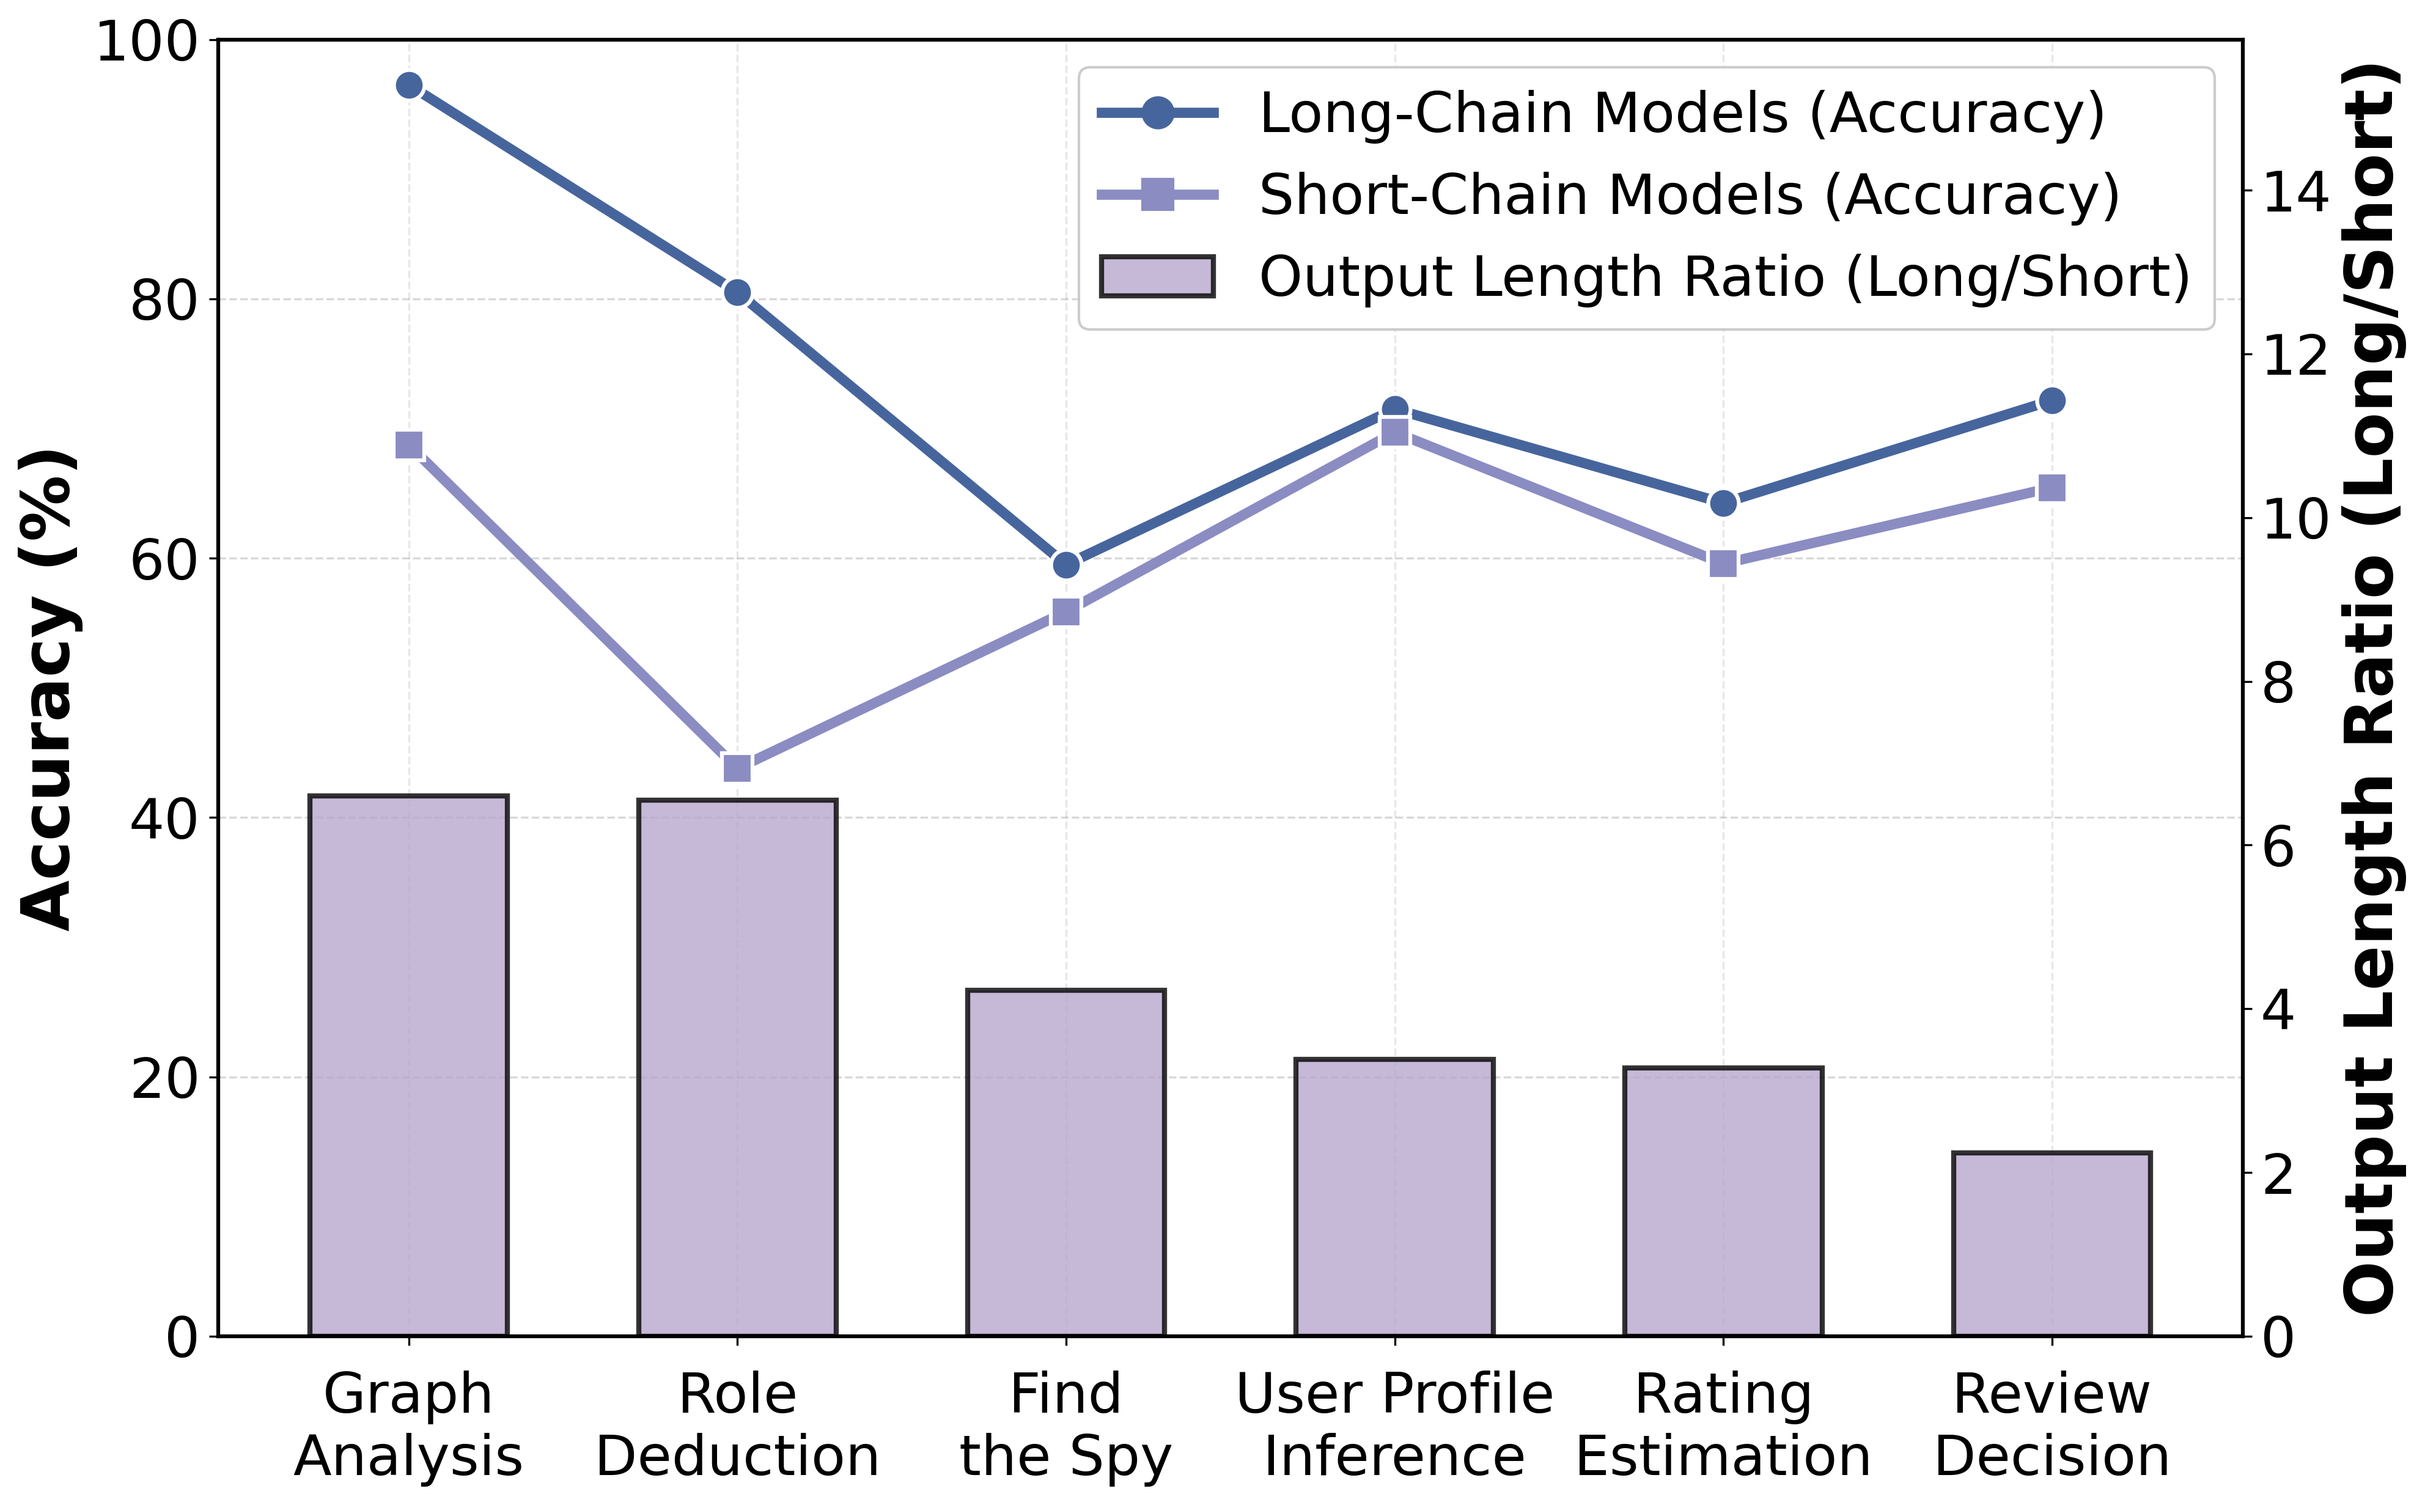
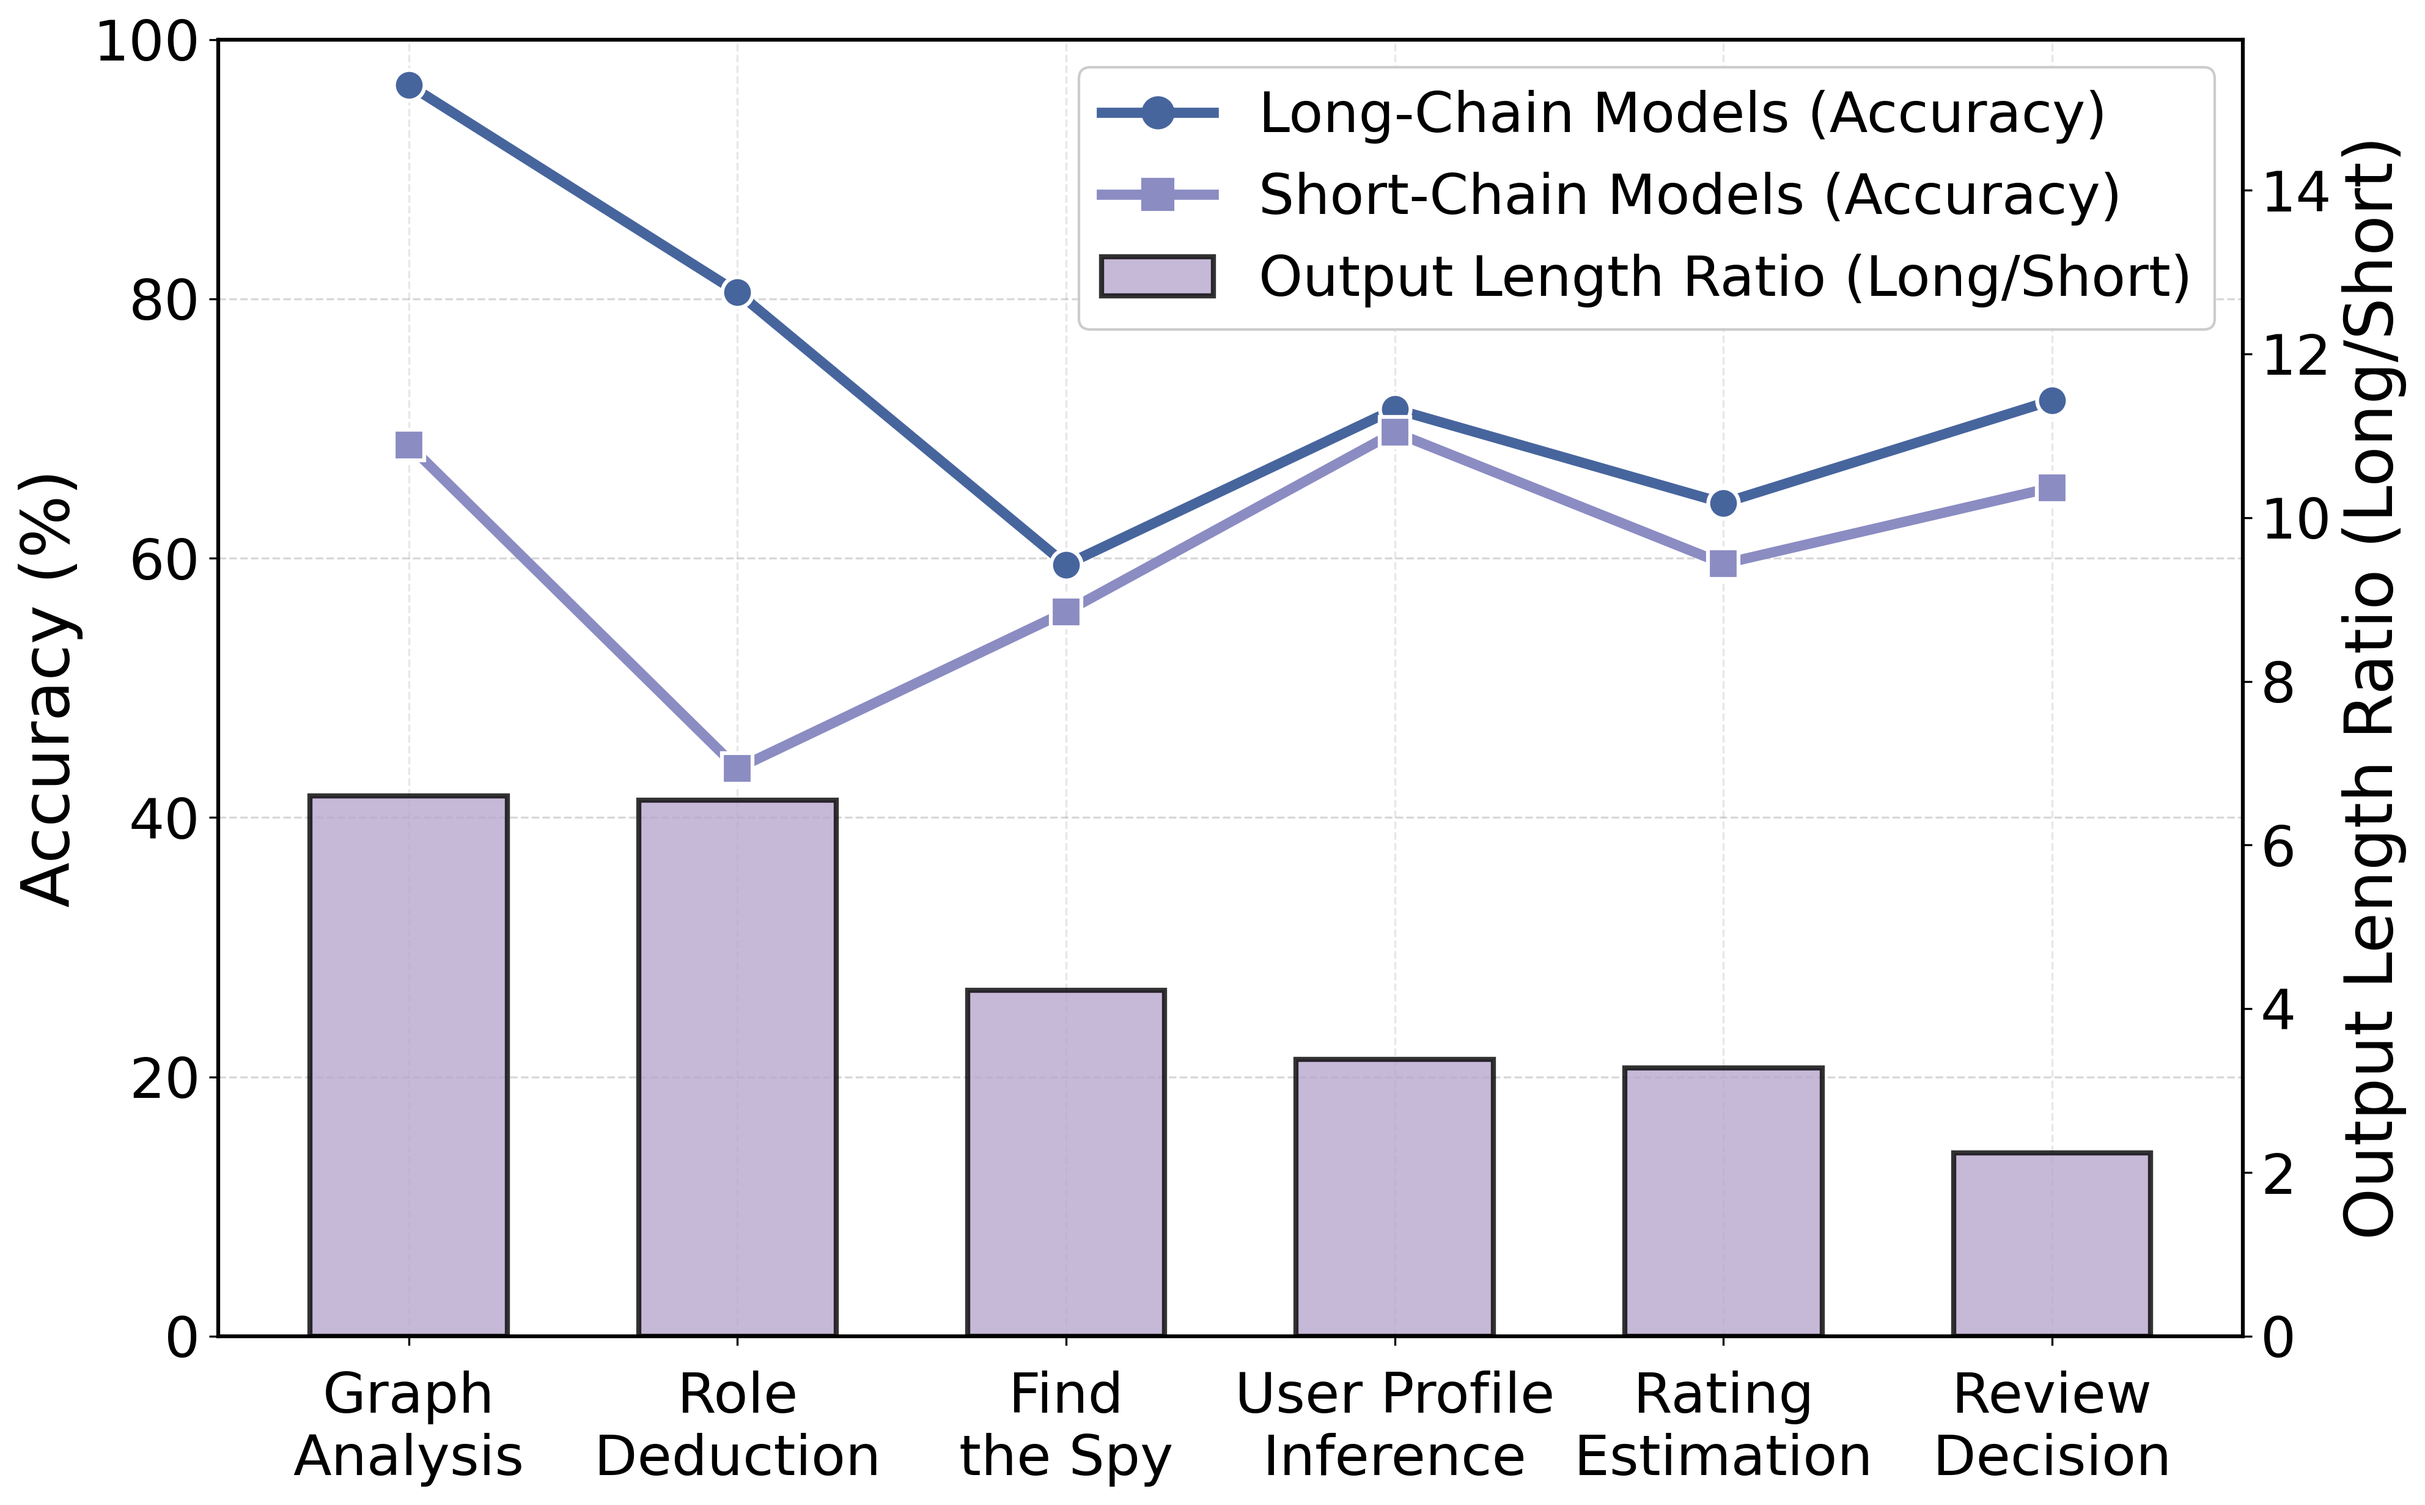
update

Changed region(s): [[0.9612, 0.0309, 0.9922, 0.8952], [0.0, 0.2778, 0.031, 0.6174]]

diff --git a/blood/round_acc.py b/blood/round_acc.py
@@ -3,6 +3,7 @@ import json
 import numpy as np
 import matplotlib.pyplot as plt
 import re
+import csv  # 添加csv模块导入
 
 # 定义颜色
 colors = ['#C7EAEC', '#AED9CE', '#96BAC7']
@@ -78,9 +79,6 @@ model_order = [
     'gemeni-2.5'
 ]
 
-# 重组数据以匹配新的顺序和名称
-models = [m for m in model_order if m in model_data]
-
 # 手动添加o1和gemeni-2.5的数据
 model_data['o1'] = {
     'round1': 42,
@@ -94,13 +92,31 @@ model_data['gemeni-2.5'] = {
     'round3': 88
 }
 
-# 确保包含手动添加的模型
+# 重组数据以匹配新的顺序和名称
 models = [m for m in model_order if m in model_data]
 display_names = [model_name_map.get(m, m) for m in models]
 
 round1_values = [model_data[m]['round1'] for m in models]
 round2_values = [model_data[m]['round2'] for m in models]
 round3_values = [model_data[m]['round3'] for m in models]
+
+# 输出数据到CSV文件
+csv_filename = 'multiturn_role_accuracy.csv'
+with open(csv_filename, 'w', newline='') as csvfile:
+    writer = csv.writer(csvfile)
+    # 写入表头
+    writer.writerow(['Model', 'Display Name', 'Round 1', 'Round 2', 'Round 3'])
+    # 写入数据
+    for i, model in enumerate(models):
+        writer.writerow([
+            model, 
+            display_names[i], 
+            round1_values[i], 
+            round2_values[i], 
+            round3_values[i]
+        ])
+    
+print(f"CSV数据已保存为 {csv_filename}")
 
 # 设置图形风格
 plt.figure(figsize=(14, 7))

diff --git a/debate/round_acc.py b/debate/round_acc.py
@@ -2,6 +2,7 @@ import os
 import json
 import numpy as np
 import matplotlib.pyplot as plt
+import csv  # 添加csv模块导入
 
 # 定义颜色
 colors = ['#FFCCCB', '#FF9797', '#AF3240']
@@ -77,6 +78,17 @@ stage1_values = [model_data[m]['stage1'] for m in models]
 stage2_values = [model_data[m]['stage2'] for m in models]
 stage3_values = [model_data[m]['stage3'] for m in models]
 
+# 生成CSV文件保存数据
+def save_to_csv(filename, models, display_names, stage1, stage2, stage3, stage_names):
+    with open(filename, 'w', newline='') as csvfile:
+        writer = csv.writer(csvfile)
+        # 写入表头
+        writer.writerow(['Model ID', 'Model Display Name'] + stage_names)
+        # 写入每个模型的数据
+        for i in range(len(models)):
+            writer.writerow([models[i], display_names[i], stage1[i], stage2[i], stage3[i]])
+    print(f"数据已保存到 {filename}")
+
 # 设置图形风格
 plt.figure(figsize=(14, 7))
 plt.rcParams['axes.edgecolor'] = 'black'
@@ -120,7 +132,12 @@ plt.tight_layout()
 # 保存图像
 plt.savefig('multiturn_debate.png', dpi=300, bbox_inches='tight')
 
+# 同时保存CSV数据
+save_to_csv('multiturn_debate_results.csv', models, display_names, 
+            stage1_values, stage2_values, stage3_values, stage_names)
+
 # 显示图像
 plt.show()
 
 print("图表已保存为 multiturn_debate.png")
+print("数据已保存为 multiturn_debate_results.csv")

diff --git a/deep_reason.py b/deep_reason.py
@@ -120,13 +120,13 @@ for i, (y1, y2) in enumerate(zip(long_chain_accuracies, short_chain_accuracies))
              markeredgecolor='white', markeredgewidth=1.5)
 
 # 设置左Y轴（准确率）
-ax1.set_ylabel('Accuracy (%)', fontsize=26, fontweight='bold')  # 增大字体
+ax1.set_ylabel('Accuracy (%)', fontsize=26)  # 增大字体
 ax1.set_ylim(0, min(100, max(max(long_chain_accuracies), max(short_chain_accuracies)) * 1.15))
 ax1.grid(axis='y', linestyle='--', alpha=0.3, color='gray')
 ax1.tick_params(axis='y', labelsize=22)  # 增大刻度标签
 
 # 设置右Y轴（长度比）
-ax2.set_ylabel('Output Length Ratio (Long/Short)', fontsize=26, fontweight='bold')  # 增大字体
+ax2.set_ylabel('Output Length Ratio (Long/Short)', fontsize=26)  # 增大字体
 ax2.set_ylim(0, max(length_ratios) * 2.4)
 ax2.tick_params(axis='y', labelsize=22)  # 增大刻度标签
 
